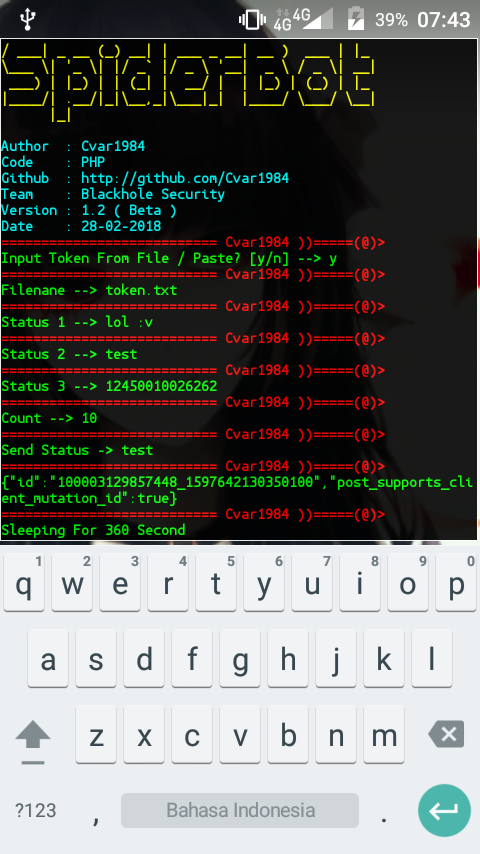
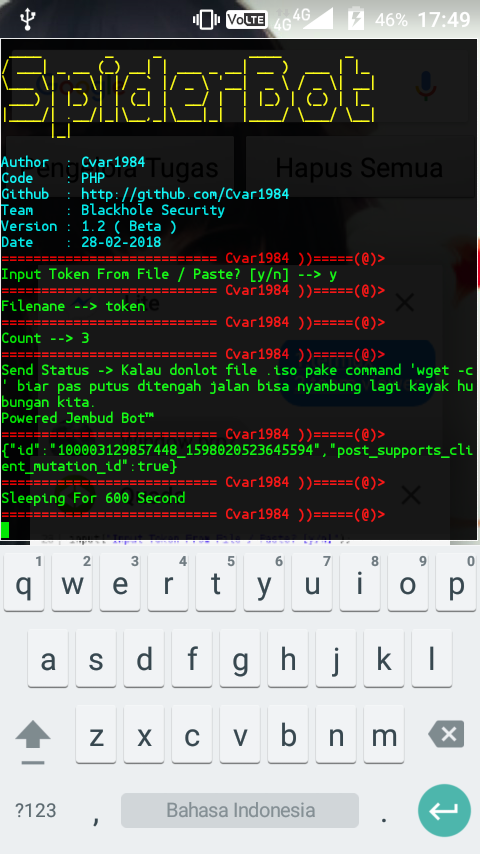
Last Commit

diff --git a/status.php b/status.php
@@ -1,0 +1,57 @@
+<?php
+$status=array(
+"Kalau donlot file .iso pake command 'wget -c' biar pas putus ditengah jalan bisa nyambung lagi kayak hubungan kita.
+Powered Jembud Bot™",
+"Aku rela ko jadi Processor yg kepanasan, asalkan kmu yg jadi heatsink'y yg setiap saat bisa mendinginkan ku
+Powered Jembud Bot™",
+"Gak usah nyari celah xss deh, karena ketika kamu ngeklik hatiku udah muncul pop up namamu
+Powered Jembud Bot™",
+"jadi kamu deketin aku cuma mau 'cat /etc/passwd' -in aku? Terus kamu hek temen2 kostku, gitu?
+Powered Jembud Bot™",
+"berharap setelah aku berhasil login di hati kamu ga akan ada tombol logout, dan sessionku ga bakal pernah expired
+Powered Jembud Bot™",
+"Masa aku harus pake teknik symlink bypass buat buka2 folder hatimu yg open_basedir enabled.
+Powered Jembud Bot™",
+"Diriku dan Dirimu itu ibarat PHP dan MySQL yang belum terkoneksi :|
+Powered Jembud Bot™",
+"Jangan cuma bisa inject hatinya, tp harus bisa patchnya jg. Biar nggak selingkuh sama heker lain
+Powered Jembud Bot™",
+"Aku memang programmer PHP, tapi aku nggak akan php-in kamu kok.
+Powered Jembud Bot™",
+"Eneeeng. | Apache? | Km wanita yg paling Unix yg pernah aku kenal |
+Powered Jembud Bot™",
+"Sayang, capslock kamu nyala ya? | ngga, kenapa emangnya? | soalnya nama kamu ketulis gede bgt di hati aku | zzz! ( ‾_‾ )
+Powered Jembud Bot™",
+"Aku deketin kamu cuma untuk redirect ke hati temenmu.
+Powered Jembud Bot™",
+"Domain aja bisa parkir, masa cintaku ga bisa parkir dihatimu?
+Powered Jembud Bot™",
+"Aku boleh jadi pacarmu? | 400(Bad Request) | Aku cium boleh? | 401(Authorization Required) | Aku buka bajumu yah | 402(Payment Required)
+Powered Jembud Bot™",
+"kamu tau ga beda'y kamu sama sintax PHP,kalo sintax PHP itu susah di hafalin kalo kamu itu susah di lupain >_<",
+"Kamu dulu sekolah SMK ambil kejuruan apa? | Teknik Komputer Jaringan | Terus skrg bisa apa aja? | Menjaring hatimu lewat komputerku | :*
+Powered Jembud Bot™",
+"Jika cinta itu Array, maka, cintaku padamu tak pernah empty jika di unset().
+Powered Jembud Bot™",
+"SQLI ( Structured Query Love Injection )
+Powered Jembud Bot™",
+"aku ingin kamu rm -rf kan semua mantan di otak mu,aku lah root hati kamu.
+Powered Jembud Bot™",
+"senyumu bagaikan cooler yang menyejukan hatiku ketika sedang overclock.
+Powered Jembud Bot™",
+"kamu adalah terminalku, dimana aku menghabiskan waktuku untuk mengetikan beribu baris kode cinta untukmu :)
+Powered Jembud Bot™",
+"Aku seneng nongkrong di zone-h, karena disanalah aku arsipkan beberapa website yang ada foto kamunya.
+Powered Jembud Bot™",
+"hatiku ibarat vps hanya untukmu saja bukan shared hosting yg bisa tumpuk berbagai domain cinta.
+Powered Jembud Bot™",
+"Aku bukanlah VNC Server Tanpa Authentication yg bisa kamu pantau kapan saja.
+Powered Jembud Bot™",
+"Jangan men-dualboot-kan hatiku kepadamu.
+Powered Jembud Bot™",
+"KDE klh Cantiknya, GNOME klh Simplenya, FluxBox klh Ringannya, pokonya Semua DE itu Kalah Sama Kamu.
+Powered Jembud Bot™",
+"/mfspayload hati/gombal/bapakmu LHOST=L.0.v.3 LPORT=007 X > RasaCinta.exe
+Powered Jembud Bot"
+);
+?>

diff --git a/bot.php b/bot.php
@@ -18,7 +18,7 @@ Author  : Cvar1984
 Code    : PHP
 Github  : http://github.com/Cvar1984
 Team    : Blackhole Security
-Version : 1.2 ( Beta )
+Version : 1.4 ( Alpha )
 Date    : 28-02-2018\n";
 echo "$red=========================== Cvar1984 ))=====(@)>$green\n";
 @header('Content-Type: text/html; charset=UTF-8');
@@ -33,46 +33,32 @@ input("Filenane");
 $Fname=trim(fgets(STDIN));
 echo "$red=========================== Cvar1984 ))=====(@)>$green\n";
 $token=file_get_contents($Fname);
-}elseif($pilih == "n") {
+} elseif($pilih == "n") {
 echo "$red=========================== Cvar1984 ))=====(@)>$green\n";
 input("Token");
 $token=trim(fgets(STDIN));
 echo "$red=========================== Cvar1984 ))=====(@)>$green\n";
-} else {
+} else {	
 echo "$red(!)$yellow Invalid$red (!)\n";
 goto pilih;
 }
-input("Status 1");
-$pesanA=trim(fgets(STDIN));
-echo "$red=========================== Cvar1984 ))=====(@)>$green\n";
-input("Status 2");
-$pesanB=trim(fgets(STDIN));
-echo "$red=========================== Cvar1984 ))=====(@)>$green\n";
-input("Status 3");
-$pesanC=trim(fgets(STDIN));
-echo "$red=========================== Cvar1984 ))=====(@)>$green\n";
 input("Count");
 $count=trim(fgets(STDIN));
 echo "$red=========================== Cvar1984 ))=====(@)>$green\n";
+include('status.php');
 for($x=0;$x<$count;$x++) {
 $ch=curl_init();
-
-$array=array($pesanA,$pesanB,$pesanC); // Array Status
-$mix=array_rand($array);
-$status=$array[$mix]; // Random Status
-
 curl_setopt($ch, CURLOPT_URL,'https://graph.facebook.com/me/feed');
 curl_setopt($ch, CURLOPT_RETURNTRANSFER, 1);
-curl_setopt($ch, CURLOPT_POSTFIELDS,"method=POST&message=$status&access_token=$token");
+curl_setopt($ch, CURLOPT_POSTFIELDS,"method=POST&message=$status[$x]&access_token=$token");
 curl_setopt($ch, CURLOPT_POST,1);
-
 $tampil=curl_exec($ch);
 curl_close($ch);
-echo "Send Status -> $status\n";
+echo "Send Status -> $status[$x]\n";
 echo "$red=========================== Cvar1984 ))=====(@)>$green\n";
 echo "$tampil\n";
 echo "$red=========================== Cvar1984 ))=====(@)>$green\n";
-$sleep=array("300","360","600","540"); // Detik
+$sleep=array("700","800","600","500"); // Detik
 $slp=array_rand($sleep);
 $slp2=$sleep[$slp];
 echo "Sleeping For $slp2 Second\n";
